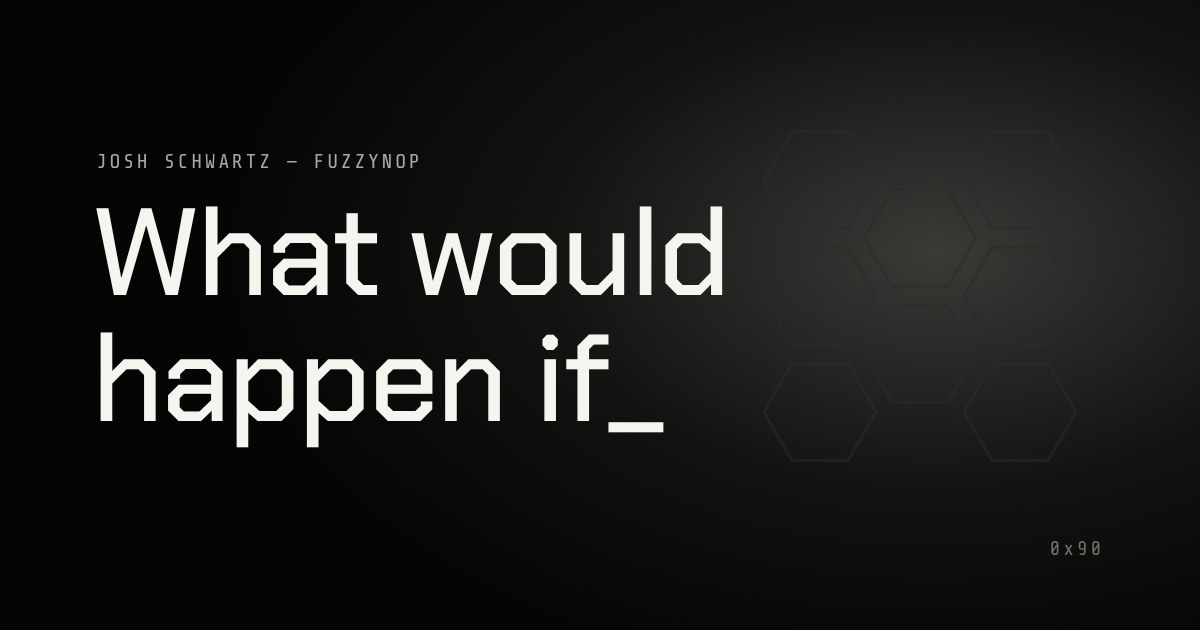
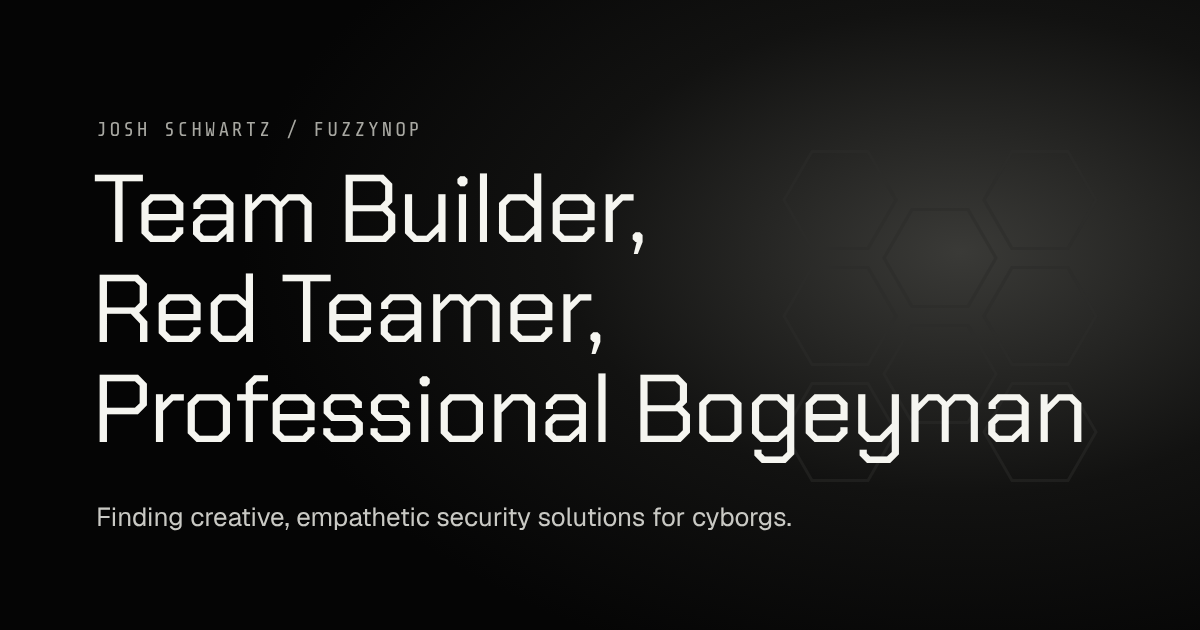
Copy rewrite in Z's voice: tagline hero + cyborg line, 01 Past / 02 Present / 03 Future, plain contact line; no em/en dashes anywhere (enforced by copy.test.ts); OG image and meta to match
Claude-Session: https://claude.ai/code/session_01JQ9fAiMZhKD46LHk4kUWGU

diff --git a/src/content/site.ts b/src/content/site.ts
@@ -9,8 +9,8 @@ export const site = {
   handle: 'FuzzyNop',
   url: 'https://fuzzynop.com',
   description:
-    'Josh Schwartz (FuzzyNop). Red teamer, team builder, professional bogeyman. These days, working where humans and machines meet.',
-  footerEgg: '0x90 0x90 0x90 — nothing happened here',
+    'Josh Schwartz (FuzzyNop). Team builder, red teamer, professional bogeyman. Finding creative, empathetic security solutions for cyborgs.',
+  footerEgg: '0x90 0x90 0x90 · nothing happened here',
   /**
    * The one call to action (HANDOFF §3.5). Mechanism TBD by Z (docs/DECISIONS.md).
    * href: booking link once chosen. fallback: `mailto:` once a public email exists.
@@ -26,51 +26,43 @@ export const site = {
 
 /** v2.4: the log replaces Before / Practice / Now. Labels are UI, not claims (open assumption). */
 export const nav = [
-  { id: 'before', label: 'Before' },
-  { id: 'practice', label: 'Practice' },
-  { id: 'now', label: 'Now' },
+  { id: 'past', label: 'Past' },
+  { id: 'present', label: 'Present' },
+  { id: 'future', label: 'Future' },
   { id: 'contact', label: 'Contact' },
 ] as const;
 
 export const hero = {
-  eyebrow: 'Josh Schwartz — FuzzyNop',
-  /** Z's own question, left with the cursor blinking (docs/NARRATIVE.md). */
-  question: ['What would', 'happen if'],
-  /** Who, in one line: the v2.3 tagline + the approved "these days" line. */
-  lede: 'Red teamer, team builder, professional bogeyman. These days, working where humans and machines meet.',
+  eyebrow: 'Josh Schwartz / FuzzyNop',
+  tagline: ['Team Builder,', 'Red Teamer,', 'Professional Bogeyman'],
+  lede: 'Finding creative, empathetic security solutions for cyborgs.',
 };
 
 /**
- * The page, in Z's voice: quiet first person, plain sentences (copy style locked 2026-11-01).
- * Paragraphs are Z's approved copy (docs/CONTENT.md); lines marked NEW are drafted from the
- * 2026-11-01 interview and await Z's sign-off.
+ * Z's voice: plain, direct, first person. Written by hand, not generated.
+ * Hard rules: no em or en dashes anywhere on the page; no stock phrasing (see docs/CONTENT.md).
  */
-export type Chapter = { n: string; id: string; eyebrow: string; title: string; body: string[]; lede?: string; list?: string[]; listLabel?: string };
+export type Chapter = { n: string; id: string; eyebrow: string; title: string; body: string[]; lede?: string; list?: string[]; listLabel?: string; coda?: string };
 
-export const before: Chapter = {
+export const past: Chapter = {
   n: '01',
-  id: 'before',
-  eyebrow: 'Before',
-  title: 'Hacker. Executive.',
+  id: 'past',
+  eyebrow: 'Past',
+  title: 'Hacker / Executive',
   body: [
-    'I spent my career as a hacker and an executive. Red teaming, building teams, leading at the top.',
-    // NEW (interview: security is a feeling; the bogeyman; EXP. 01 result approved in round 1)
-    'Most of the work was breaking the stories people told themselves about being safe. They felt less safe afterwards. They were safer.',
-    'I retired from that world, and what came after wasn’t a pivot so much as a return: to art, to community, to the questions underneath all of it.',
+    'I started out tracking bad guys. Then I switched sides and played the adversary for a living.',
+    'Over time that grew into building teams and leading in the security space.',
   ],
 };
 
-export const practice: Chapter = {
+export const present: Chapter = {
   n: '02',
-  id: 'practice',
-  eyebrow: 'Practice',
-  title: 'I create things.',
+  id: 'present',
+  eyebrow: 'Present',
+  title: 'The human side',
   body: [
-    'Not as a job title, but as a way of thinking. Interfaces, rituals, small systems that sit at the edge of code and consciousness.',
-    'I lead projects and I lead people, and I care about both in the same way.',
+    'Lately I’m working on how hackers take care of their own heads, what AI safety looks like from the human side, and what happens to our minds as machines start to seem more human.',
   ],
-  listLabel: 'What I do',
-  list: ['Red teaming', 'Building and leading teams', 'Interfaces, rituals, small systems', 'Art and community'],
 };
 
 export const interlude = {
@@ -79,25 +71,24 @@ export const interlude = {
   followUp: 'And how do we stay human in the process?',
 };
 
-export const now: Chapter = {
+export const future: Chapter = {
   n: '03',
-  id: 'now',
-  eyebrow: 'Now',
-  title: 'These days.',
+  id: 'future',
+  eyebrow: 'Future',
+  title: 'What I’m looking for',
   body: [],
-  lede: 'I’m working at the intersection of',
-  list: ['Consciousness', 'Wellness for hackers', 'AI safety', 'Cyborg psychology'],
+  lede: 'The chance to make a real impact, either building a team or guiding a project in:',
+  listLabel: 'Areas',
+  list: ['Red teaming', 'AI safety', 'Consciousness exploration', 'Wellness for security professionals and hackers'],
+  coda: 'Or anything at the forefront of cyborg psychology.',
 };
 
 export const contact: Chapter = {
   n: '04',
   id: 'contact',
   eyebrow: 'Contact',
-  title: 'Say hello.',
-  body: [
-    // NEW (interview: who should feel invited)
-    'If you break things for a living, need help building a team, or are making something where people and machines meet, I’d like to hear about it.',
-  ],
+  title: 'Say hello',
+  body: ['If you’re working on any of this, or think I could help, get in touch.'],
 };
 
 /** Name of the circuit-tree nav (screen readers) and its small visible label. */

diff --git a/src/App.tsx b/src/App.tsx
@@ -6,7 +6,7 @@ import { Puppeteer } from './art/Puppeteer';
 import { CircuitTree } from './components/CircuitTree';
 import { Chapter } from './components/Chapter';
 import { Cta } from './components/ui';
-import { before, contact, elsewhere, interlude, nav, now, practice, site, ui } from './content/site';
+import { contact, elsewhere, future, interlude, nav, past, present, site, ui } from './content/site';
 import { Hero } from './sections/Hero';
 
 /*
@@ -46,7 +46,7 @@ export default function App() {
         <Hero />
 
         <div className="shell relative pb-40">
-          {/* ---- 01 Before ---- */}
+          {/* ---- 01 Past ---- */}
           <div className="plate-slot relative grid lg:grid-cols-12">
             <Depth depth={0.7} className="-left-48 -top-40">
               <HexLattice cols={8} rows={7} r={40} tone="far" seed={21} />
@@ -54,18 +54,18 @@ export default function App() {
             <Depth depth={0.15} className="-right-10 top-1/3 hidden lg:block">
               <Splatter size={170} seed={31} />
             </Depth>
-            <PrintedPlate id={before.id} side="right" className="mx-6 lg:col-span-7 lg:mx-0">
-              <Chapter ch={before} />
+            <PrintedPlate id={past.id} side="right" className="mx-6 lg:col-span-7 lg:mx-0">
+              <Chapter ch={past} />
             </PrintedPlate>
           </div>
 
-          {/* ---- 02 Practice ---- */}
+          {/* ---- 02 Present ---- */}
           <div className="plate-slot relative grid lg:grid-cols-12">
             <Depth depth={0.4} className="-top-72 left-[8%] hidden md:block">
               <SpiderLeg length={620} t={18} tone="mid" delay={2} />
             </Depth>
-            <PrintedPlate id={practice.id} side="left" className="mx-6 lg:col-span-7 lg:col-start-6 lg:mx-0">
-              <Chapter ch={practice} />
+            <PrintedPlate id={present.id} side="left" className="mx-6 lg:col-span-7 lg:col-start-6 lg:mx-0">
+              <Chapter ch={present} />
             </PrintedPlate>
           </div>
 
@@ -81,7 +81,7 @@ export default function App() {
             </PrintedPlate>
           </div>
 
-          {/* ---- 03 Now ---- */}
+          {/* ---- 03 Future ---- */}
           <div className="plate-slot relative grid lg:grid-cols-12">
             <Depth depth={0.6} className="-right-56 -top-32">
               <HexLattice cols={7} rows={8} r={44} tone="far" seed={57} />
@@ -89,8 +89,8 @@ export default function App() {
             <Depth depth={0.3} className="-top-80 right-[12%] hidden md:block">
               <SpiderLeg length={540} t={15} tone="near" flip delay={3.5} />
             </Depth>
-            <PrintedPlate id={now.id} side="right" className="mx-6 lg:col-span-7 lg:col-start-2 lg:mx-0">
-              <Chapter ch={now} />
+            <PrintedPlate id={future.id} side="right" className="mx-6 lg:col-span-7 lg:col-start-2 lg:mx-0">
+              <Chapter ch={future} />
             </PrintedPlate>
           </div>
 

diff --git a/index.html b/index.html
@@ -3,14 +3,14 @@
   <head>
     <meta charset="utf-8" />
     <meta name="viewport" content="width=device-width, initial-scale=1" />
-    <title>Josh Schwartz — FuzzyNop</title>
-    <meta name="description" content="Josh Schwartz (FuzzyNop). Red teamer, team builder, professional bogeyman. These days, working where humans and machines meet." />
+    <title>Josh Schwartz / FuzzyNop</title>
+    <meta name="description" content="Josh Schwartz (FuzzyNop). Team builder, red teamer, professional bogeyman. Finding creative, empathetic security solutions for cyborgs." />
     <meta name="theme-color" content="#0A0A0A" />
     <link rel="canonical" href="https://fuzzynop.com/" />
     <meta property="og:type" content="website" />
     <meta property="og:url" content="https://fuzzynop.com/" />
-    <meta property="og:title" content="Josh Schwartz — FuzzyNop" />
-    <meta property="og:description" content="Red teamer, team builder, professional bogeyman. These days, working where humans and machines meet." />
+    <meta property="og:title" content="Josh Schwartz / FuzzyNop" />
+    <meta property="og:description" content="Finding creative, empathetic security solutions for cyborgs." />
     <meta property="og:image" content="https://fuzzynop.com/og.png" />
     <meta property="og:image:width" content="1200" />
     <meta property="og:image:height" content="630" />
@@ -23,7 +23,7 @@
   </head>
   <body>
     <div id="root"></div>
-    <noscript>Josh Schwartz — FuzzyNop. What happens when humans and machines meet, and how do we stay human in the process?</noscript>
+    <noscript>Josh Schwartz / FuzzyNop. Team builder, red teamer, professional bogeyman. Finding creative, empathetic security solutions for cyborgs.</noscript>
     <script type="module" src="/src/main.tsx"></script>
   </body>
 </html>

diff --git a/src/content/copy.test.ts b/src/content/copy.test.ts
@@ -1,0 +1,22 @@
+import { describe, expect, it } from 'vitest';
+import * as links from './links';
+import * as site from './site';
+import indexHtml from '../../index.html?raw';
+
+/** Every string that can reach the page, the share card or a screen reader. */
+const strings = (v: unknown): string[] =>
+  typeof v === 'string' ? [v] : Array.isArray(v) ? v.flatMap(strings) : v && typeof v === 'object' ? Object.values(v).flatMap(strings) : [];
+
+describe('copy rules', () => {
+  const all = [...strings(site), ...strings(links), indexHtml];
+
+  it('has no em or en dashes anywhere (hard rule, Z 2026-11-02)', () => {
+    const bad = all.filter((s) => /[–—]/.test(s));
+    expect(bad).toEqual([]);
+  });
+
+  it('has no exclamation marks or stock filler', () => {
+    const stock = /!|passionate|leverag|synerg|cutting[- ]edge|unlock|empower|journey|delve|tapestry|elevate|seamless|game[- ]changer/i;
+    expect(all.flatMap(strings).filter((s) => !s.includes('<!doctype') && stock.test(s))).toEqual([]);
+  });
+});

diff --git a/src/sections/Hero.tsx b/src/sections/Hero.tsx
@@ -23,7 +23,7 @@ export function Hero() {
   const { w, h } = useSize(ref);
   const reduce = useReducedMotion();
   const [boxes, setBoxes] = useState<Box[]>([]);
-  const text = hero.question; // the open question (main story: docs/NARRATIVE.md), left with a blinking cursor
+  const text = hero.tagline;
   const n = text.length;
   const writeEnd = DELAY + n * PER_LINE;
 
@@ -166,11 +166,6 @@ export function Hero() {
               className="block w-fit py-1"
             >
               {line}
-              {i === n - 1 && (
-                <span className="caret" aria-hidden="true">
-                  _
-                </span>
-              )}
             </span>
           ))}
         </h1>

diff --git a/src/main.tsx b/src/main.tsx
@@ -10,4 +10,4 @@ createRoot(document.getElementById('root')!).render(
 );
 
 const accent = getComputedStyle(document.documentElement).getPropertyValue('--md-sys-color-accent').trim();
-console.log('%c0x90 0x90 0x90', `color:${accent};font-family:monospace`, '— nothing happened here.');
+console.log('%c0x90 0x90 0x90', `color:${accent};font-family:monospace`, 'nothing happened here.');

diff --git a/src/components/Chapter.tsx b/src/components/Chapter.tsx
@@ -30,6 +30,7 @@ export function Chapter({ ch, children }: { ch: Ch; children?: ReactNode }) {
           ))}
         </ul>
       )}
+      {ch.coda && <p className="type-body-large mt-8 max-w-[60ch] text-on-paper-variant">{ch.coda}</p>}
       {children}
     </>
   );

diff --git a/docs/CONTENT.md b/docs/CONTENT.md
@@ -15,21 +15,28 @@ Copy lives in `src/content/site.ts`. Only publish what's in "Approved copy" belo
 >
 > The through-line of my whole career has been the same question: what happens when humans and machines meet, and how do we stay human in the process?
 
-## How it maps to the site (copy style: quiet first person — see docs/NARRATIVE.md)
-| Where | Copy | Source / status |
+## Copy rules (Z, 2026-11-02)
+- Z's voice: plain, direct, first person. Professional, human, a little dry. Never AI-sounding.
+- **No em or en dashes anywhere on the page, share card or meta.** Use a period, comma, colon or slash. Enforced by `src/content/copy.test.ts`.
+- No stock phrasing ("journey", "passionate", "leverage", "unlock", "where X meets Y"), no exclamation marks, no emoji.
+
+## How it maps to the site (Z, 2026-11-02)
+| Where | Copy | Source |
 |---|---|---|
-| Identity / title | Josh Schwartz — FuzzyNop | Z |
-| Hero | "What would / happen if_" + "Red teamer, team builder, professional bogeyman. These days, working where humans and machines meet." | Z's question; tagline + "these days" line are Z's |
-| 01 Before | "Hacker. Executive." + approved paragraphs 1–2, plus "Most of the work was breaking the stories people told themselves about being safe. They felt less safe afterwards. They were safer." | approved; middle paragraph NEW (from interview) |
-| 02 Practice | "I create things." + approved paragraph; list: Red teaming · Building and leading teams · Interfaces, rituals, small systems · Art and community | approved |
-| The question | "The through-line of my whole career has been the same question:" / "What happens when humans and machines meet?" / "And how do we stay human in the process?" | approved |
-| 03 Now | "These days." / "I’m working at the intersection of" + Consciousness · Wellness for hackers · AI safety · Cyborg psychology | approved |
-| 04 Contact | "Say hello." + "If you break things for a living, need help building a team, or are making something where people and machines meet, I’d like to hear about it." CTA "Message me · LinkedIn" (→ "Book time" once Calendly exists) | body NEW; CTA label UI |
-| Elsewhere | Circuit tree: Work (LinkedIn), Make (SoundCloud, Spotify, Mixcloud); "soon" items hidden in production | Z (branch names) |
-| Hidden trust line | "Nothing here is secure." / "He feels safe anyway." | Z interview |
-| Footer | `0x90 0x90 0x90 — nothing happened here` | v1 |
-| Meta / share | Title "Josh Schwartz — FuzzyNop"; description = hero line; OG image "What would happen if_" | derived |
-| UI labels | Nav Before / Practice / Now / Contact; "What I do", "Elsewhere", "Skip to content" | UI |
+| Identity / title | Josh Schwartz / FuzzyNop | Z |
+| Hero | "Team Builder, / Red Teamer, / Professional Bogeyman" + "Finding creative, empathetic security solutions for cyborgs." | Z |
+| 01 Past | **Hacker / Executive.** "I started out tracking bad guys. Then I switched sides and played the adversary for a living." "Over time that grew into building teams and leading in the security space." | Z (shaped) |
+| 02 Present | **The human side.** "Lately I’m working on how hackers take care of their own heads, what AI safety looks like from the human side, and what happens to our minds as machines start to seem more human." | Z (title from his words) |
+| The question | "The through-line of my whole career has been the same question:" "What happens when humans and machines meet?" "And how do we stay human in the process?" | Z |
+| 03 Future | **What I’m looking for.** "The chance to make a real impact, either building a team or guiding a project in:" Red teaming · AI safety · Consciousness exploration · Wellness for security professionals and hackers. "Or anything at the forefront of cyborg psychology." | Z (shaped) |
+| 04 Contact | **Say hello.** "If you’re working on any of this, or think I could help, get in touch." CTA "Message me · LinkedIn" | drafted, Z to confirm |
+| Elsewhere | Circuit tree: Work (LinkedIn), Make (SoundCloud, Spotify, Mixcloud) | Z |
+| Hidden trust line | "Nothing here is secure." "He feels safe anyway." | Z |
+| Footer | `0x90 0x90 0x90 · nothing happened here` | v1 (dash removed) |
+| Meta / share | Title "Josh Schwartz / FuzzyNop"; description = tagline + hero line; OG image = tagline | derived |
+| UI labels | Nav Past / Present / Future / Contact; "Elsewhere"; "Skip to content" | UI |
+
+Retired from the page (still Z's words): the retirement/return-to-art paragraph, "I create things" paragraph and list, "These days" areas, "What would happen if".
 
 ## Allowed links (own profiles only)
 - LinkedIn https://www.linkedin.com/in/joshuaaschwartz/

diff --git a/CLAUDE.md b/CLAUDE.md
@@ -51,7 +51,7 @@ legacy/v1/             # previous hand-written site — reference only, never ed
 - **Orange is a whisper.** `accent` role only: nozzle hot tip + print line while printing, focus ring, 1px hover underline. Never a fill behind text, never a button/chip/eyebrow/headline. ≤ 2 orange moments per screen. Everything else is black, white, gray (`gray-100`…`gray-900`; text uses 100–500 only).
 - **Copy lives in `src/content/site.ts`.** Every line must trace to "Approved copy" in `docs/CONTENT.md`. Prefer Z's own phrasing.
 - **No name-dropping.** No employers, titles, clients, conferences, publications, collaborators, or orgs — even though the background is in CONTENT.md for context.
-- **Voice:** understated. No "passionate about" lists, no exclamation marks, no emoji. Don't introduce Z's "z for s" quirk here unless asked; never "correct" it if present.
+- **Voice:** Z's own, first person, plain and direct. Write like a professional portfolio copywriter, never like an AI: no stock phrases, no filler triads, no "where X meets Y". **No em or en dashes anywhere on the page (hard rule; `src/content/copy.test.ts` enforces it).** No "passionate about" lists, no exclamation marks, no emoji. Don't introduce Z's "z for s" quirk here unless asked; never "correct" it if present.
 - **Privacy:** never publish home addresses, personal email, family/relationship details, health info, job-search or relocation plans, or anything outside "Approved copy".
 - **Accessibility:** WCAG 2.1 AA minimum. Semantic landmarks, visible focus (orange `--md-sys-color-accent` ring), `prefers-reduced-motion` respected everywhere, text contrast ≥ 4.5:1, color never the only signal.
 - **Performance:** Lighthouse ≥ 95 all categories. No layout shift from fonts (`display=swap` + fallbacks). Lazy-load anything heavy (Three.js, video).

diff --git a/docs/NARRATIVE.md b/docs/NARRATIVE.md
@@ -66,3 +66,7 @@ The "experiment log" device (EXP. 0N, Result lines, `?`, `_`) is retired from th
 6. **04 Contact — Say hello.** NEW: "If you break things for a living, need help building a team, or are making something where people and machines meet, I'd like to hear about it." + CTA ("Message me · LinkedIn" until Calendly/email exist) + "Elsewhere" circuit tree.
 
 Lines marked NEW need Z's sign-off; everything else is approved copy or Z's tagline.
+
+
+## Revision — Z, 2026-11-02 (supersedes the structure above)
+Hero back to the tagline "Team Builder, / Red Teamer, / Professional Bogeyman" with "Finding creative, empathetic security solutions for cyborgs." Chapters are **01 Past / 02 Present / 03 Future** (+ 04 Contact). Past = tracking bad guys → playing the adversary → building teams and leading in security (no retirement/art). Present = hackers' heads, AI safety from the human side, minds as machines appear more human. Future = Practice + Now combined: opportunities to build teams or guide projects (red teaming, AI safety, consciousness exploration, wellness for security professionals and hackers), or inspiring projects at the forefront of cyborg psychology. Exact copy: docs/CONTENT.md.
